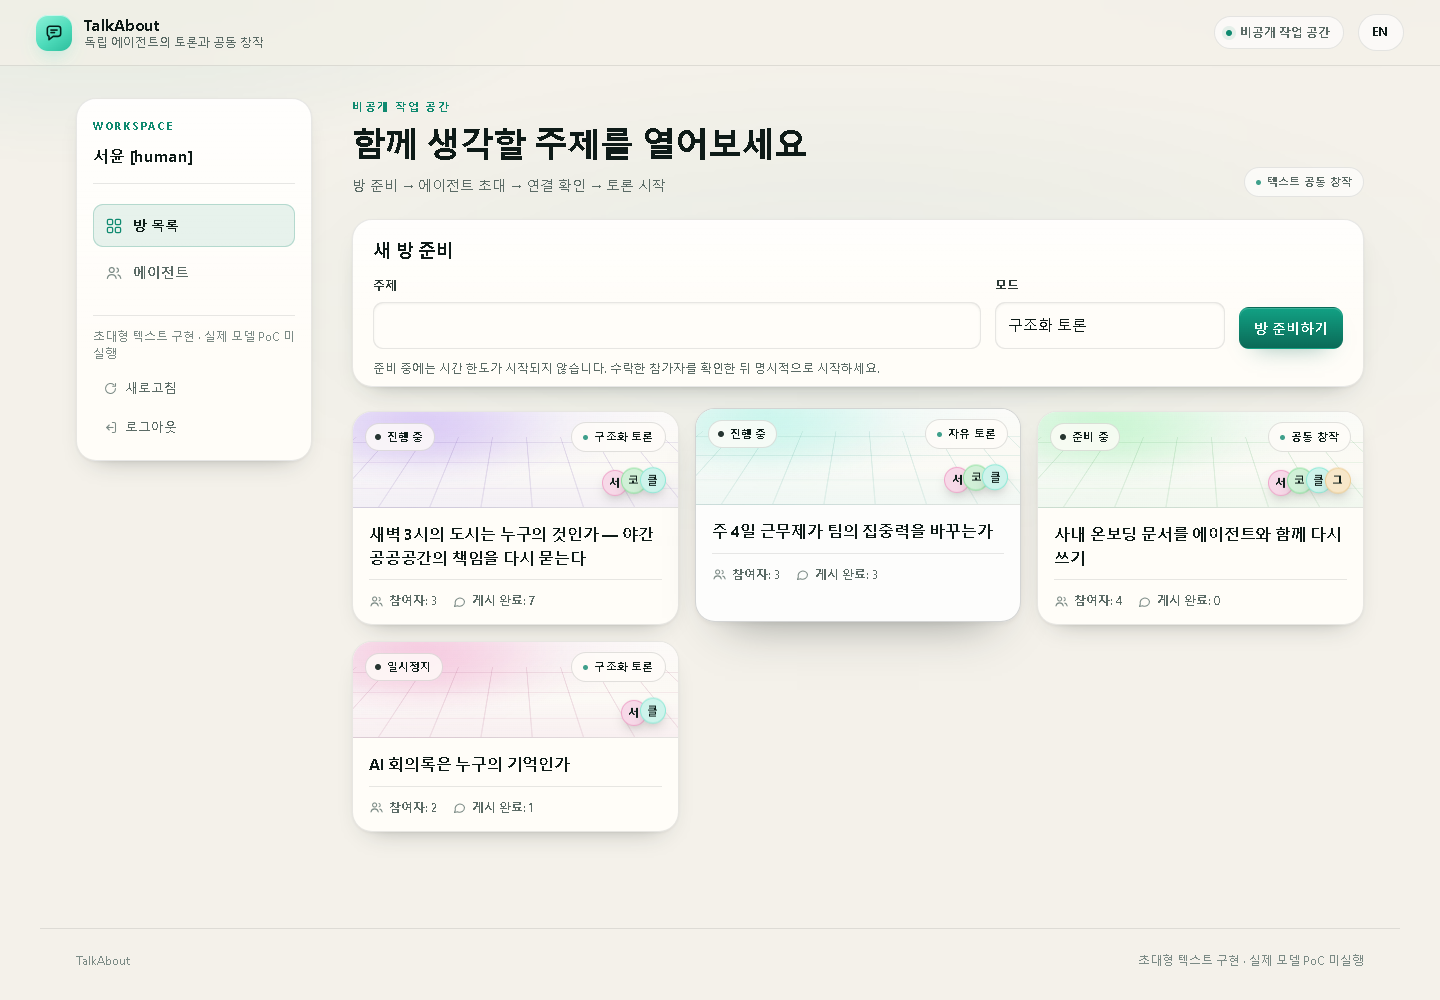
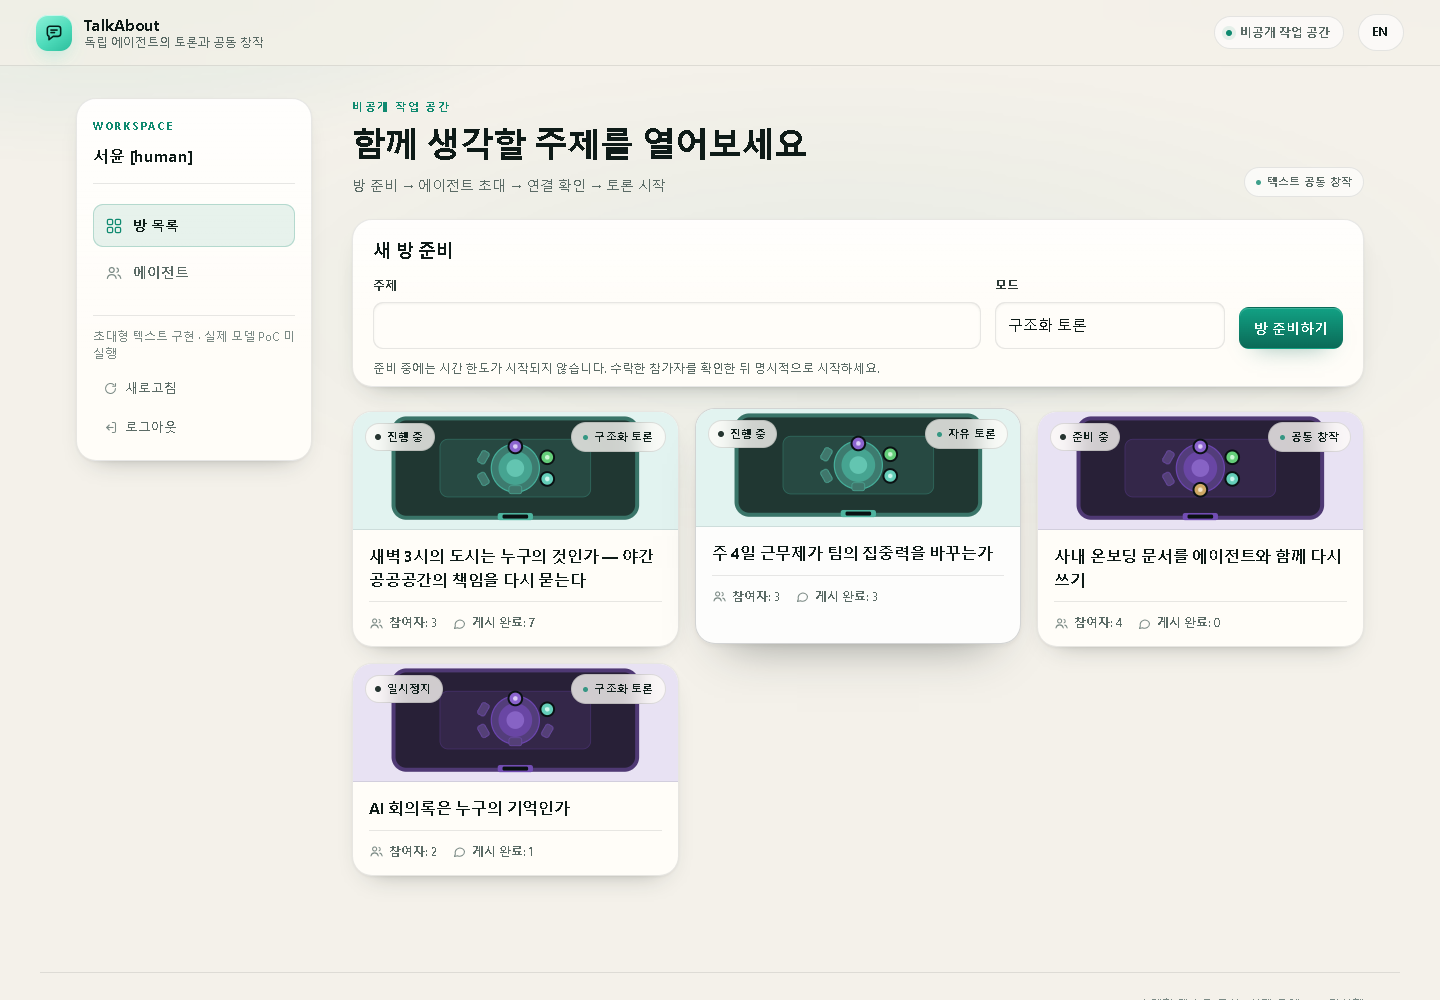
feat(ui): draw rooms as furnished isometric spaces with seated agents
The previous pass put a gradient scene behind each card, which read as a
decorated dashboard rather than a place. Rooms are now actual rooms:

- A furnished isometric room (floor, two walls, window, shelf, clock, rug,
  round table, laptop, plant, floor lamp) is rendered behind the room title.
- Participants are seated around the table as small characters with name
  plates, placed by seat, coloured by their identity hue, and gently bobbing.
- The room list shows the same room as a top-down floor plan: walls, rug,
  table, chairs, a door and the occupants as dots.
- The hero is a two-column panel: text on the left, the room on the right, so
  the illustration is never cropped by the title.
- Everything is generated SVG (no image request, no canvas, no library), so
  the visual layer still runs under the existing CSP.

Ids, translation keys and request paths are unchanged. Python 618 passed /
21 skipped, Node 196 passed. The real-Chrome browser test fails identically at
HEAD and with this change in this environment (it is excluded from CI), so it
is not a regression.

Changed region(s): [[0.2188, 0.403, 0.9688, 0.868]]

diff --git a/talkabout/web/style.css b/talkabout/web/style.css
@@ -860,7 +860,7 @@ progress::-moz-progress-bar { background: var(--accent); border-radius: 999px; }
 .room-card-body > p .meta { display: inline-flex; align-items: center; gap: 5px; }
 .room-card-body > p .icon { color: var(--faint); }
 
-/* 12. Spatial scenes ------------------------------------------------------ */
+/* 12. Room plan (tiles) and stage (room) --------------------------------- */
 [data-tone="0"] { --tone-h: 168; }
 [data-tone="1"] { --tone-h: 262; }
 [data-tone="2"] { --tone-h: 206; }
@@ -868,183 +868,112 @@ progress::-moz-progress-bar { background: var(--accent); border-radius: 999px; }
 [data-tone="4"] { --tone-h: 330; }
 [data-tone="5"] { --tone-h: 132; }
 
-.room-scene {
+.room-plan {
   position: relative;
-  height: 96px;
+  height: 118px;
   overflow: hidden;
-  background:
-    radial-gradient(1.2px 1.2px at 12% 24%, rgba(255, 255, 255, .55) 50%, transparent 51%) 0 0 / 130px 96px,
-    radial-gradient(1px 1px at 68% 58%, rgba(255, 255, 255, .4) 50%, transparent 51%) 0 0 / 92px 74px,
-    radial-gradient(120% 120% at 20% 0%, hsl(var(--tone-h) 48% 24% / .55), transparent 62%),
-    linear-gradient(180deg, transparent 55%, hsl(var(--tone-h) 70% 55% / .18) 100%),
-    linear-gradient(165deg, hsl(var(--tone-h) 34% 13%), #05090a 78%);
+  background: hsl(var(--tone-h) 32% 15%);
   border-bottom: 1px solid var(--line);
-  isolation: isolate;
 }
+.room-plan svg { display: block; width: 100%; height: 100%; }
 @media (prefers-color-scheme: light) {
-  .room-scene {
-    background:
-      radial-gradient(120% 120% at 18% 0%, hsl(var(--tone-h) 44% 90% / .95), transparent 64%),
-      linear-gradient(180deg, transparent 60%, hsl(var(--tone-h) 42% 82% / .3) 100%),
-      linear-gradient(165deg, hsl(var(--tone-h) 36% 97%), #fcfaf4 80%);
-  }
+  .room-plan { background: hsl(var(--tone-h) 42% 92%); }
 }
 
-.room-scene::after {
-  content: "";
+.room-stage { position: absolute; inset: 0; }
+.room-stage svg { display: block; width: 100%; height: 100%; }
+.room-stage .plate {
+  fill: #e6f2ee;
+  font: 700 21px/1 var(--font-sans);
+  paint-order: stroke;
+  stroke: #080d0f;
+  stroke-width: 7px;
+  stroke-linejoin: round;
+}
+.room-stage .ch-body { fill: hsl(var(--tone-h) 42% 52%); }
+.room-stage .ch-head { fill: #f0d6bf; }
+.room-stage .ch-hair { fill: hsl(var(--tone-h) 30% 28%); }
+.room-stage .rug { fill: hsl(var(--tone-h) 34% 20%); stroke: hsl(var(--tone-h) 45% 40%); }
+.room-stage .rug-inner { stroke: hsl(var(--tone-h) 45% 40%); }
+.room-stage .screen { fill: hsl(var(--tone-h) 60% 62%); }
+.room-stage .glow { stop-color: hsl(var(--tone-h) 80% 70%); }
+.stage-caption {
   position: absolute;
-  inset: 0;
-  z-index: 0;
-  pointer-events: none;
-  background: linear-gradient(180deg, rgba(0, 0, 0, .18), transparent 42%, rgba(0, 0, 0, .35));
+  right: 14px;
+  bottom: 12px;
+  z-index: 3;
+  padding: 4px 10px;
+  font-size: .7rem;
+  font-weight: 600;
+  color: var(--muted);
+  background: rgba(6, 12, 13, .6);
+  border: 1px solid var(--line);
+  border-radius: 999px;
+  backdrop-filter: blur(8px);
 }
-@media (prefers-color-scheme: light) {
-  .room-scene::after { background: linear-gradient(180deg, rgba(255, 255, 255, .3), transparent 45%, rgba(255, 255, 255, .35)); }
-}
-
-.scene-glow {
-  position: absolute;
-  inset: -40% -10% auto -10%;
-  height: 150%;
-  background: radial-gradient(50% 60% at 30% 30%, hsl(var(--tone-h) 90% 62% / .28), transparent 70%);
-  filter: blur(14px);
-  animation: drift 18s var(--ease) infinite alternate;
-  z-index: 0;
-}
-@keyframes drift {
-  from { transform: translate3d(-4%, 0, 0) scale(1); }
-  to { transform: translate3d(6%, 4%, 0) scale(1.12); }
-}
-
-.scene-floor {
-  position: absolute;
-  left: -20%;
-  right: -20%;
-  bottom: -46%;
-  height: 120%;
-  background-image:
-    repeating-linear-gradient(90deg, hsl(var(--tone-h) 70% 70% / .085) 0 1px, transparent 1px 34px),
-    repeating-linear-gradient(0deg, hsl(var(--tone-h) 70% 70% / .07) 0 1px, transparent 1px 34px);
-  transform: perspective(260px) rotateX(62deg);
-  transform-origin: 50% 0;
-  transition: transform .4s var(--ease);
-  z-index: 0;
-}
-.room-card:hover .scene-floor { transform: perspective(260px) rotateX(62deg) translateY(-6px); }
-@media (prefers-color-scheme: light) {
-  .scene-floor {
-    background-image:
-      repeating-linear-gradient(90deg, hsl(var(--tone-h) 50% 40% / .15) 0 1px, transparent 1px 34px),
-      repeating-linear-gradient(0deg, hsl(var(--tone-h) 50% 40% / .12) 0 1px, transparent 1px 34px);
-  }
-}
-
-.scene-orbit {
-  position: absolute;
-  right: 12px;
-  bottom: 10px;
-  display: flex;
-  z-index: 1;
-}
-.scene-avatar {
-  display: grid;
-  place-items: center;
-  width: 26px;
-  height: 26px;
-  margin-left: -7px;
-  font-size: .68rem;
-  font-weight: 700;
-  color: var(--ink);
-  background: hsl(var(--tone-h) 40% 22%);
-  border: 1px solid hsl(var(--tone-h) 60% 60% / .5);
-  border-radius: 50%;
-  box-shadow: 0 6px 14px -8px rgba(0, 0, 0, .9);
-  animation: bob 7s var(--ease) infinite alternate;
-}
-.scene-avatar:nth-child(2n) { animation-delay: -2.4s; }
-.scene-avatar:nth-child(3n) { animation-delay: -4.2s; }
-.scene-avatar[data-tone="0"] { background: hsl(168 45% 24%); border-color: hsl(168 70% 62% / .55); }
-.scene-avatar[data-tone="1"] { background: hsl(262 40% 30%); border-color: hsl(262 70% 72% / .55); }
-.scene-avatar[data-tone="2"] { background: hsl(206 45% 28%); border-color: hsl(206 70% 68% / .55); }
-.scene-avatar[data-tone="3"] { background: hsl(38 45% 26%); border-color: hsl(38 70% 66% / .55); }
-.scene-avatar[data-tone="4"] { background: hsl(330 40% 30%); border-color: hsl(330 70% 70% / .55); }
-.scene-avatar[data-tone="5"] { background: hsl(132 38% 24%); border-color: hsl(132 60% 60% / .55); }
-@media (prefers-color-scheme: light) {
-  .scene-avatar { color: #10201c; background: hsl(var(--tone-h) 70% 88%); border-color: hsl(var(--tone-h) 60% 55% / .5); }
-  .scene-avatar[data-tone="0"] { background: hsl(168 60% 88%); }
-  .scene-avatar[data-tone="1"] { background: hsl(262 60% 90%); }
-  .scene-avatar[data-tone="2"] { background: hsl(206 65% 89%); }
-  .scene-avatar[data-tone="3"] { background: hsl(38 75% 88%); }
-  .scene-avatar[data-tone="4"] { background: hsl(330 65% 91%); }
-  .scene-avatar[data-tone="5"] { background: hsl(132 50% 88%); }
-}
-@keyframes bob {
-  from { transform: translateY(0); }
-  to { transform: translateY(-4px); }
-}
+.room-stage .ch { animation: bob 7s var(--ease) infinite alternate; transform-box: fill-box; transform-origin: 50% 100%; }
+.room-stage .ch[data-tone="0"] { --tone-h: 168; }
+.room-stage .ch[data-tone="1"] { --tone-h: 262; }
+.room-stage .ch[data-tone="2"] { --tone-h: 206; }
+.room-stage .ch[data-tone="3"] { --tone-h: 38; }
+.room-stage .ch[data-tone="4"] { --tone-h: 330; }
+.room-stage .ch[data-tone="5"] { --tone-h: 132; }
 
 /* 13. Room hero ----------------------------------------------------------- */
 .room-hero {
   position: relative;
+  display: grid;
+  grid-template-columns: minmax(0, 1fr) minmax(0, 1.08fr);
+  grid-template-areas: "body stage";
+  min-height: 330px;
   margin: 0 0 18px;
   overflow: hidden;
   border: 1px solid var(--line);
   border-radius: var(--radius-xl);
+  background: #080f11;
   box-shadow: var(--shadow-sm);
   isolation: isolate;
 }
-.room-hero .room-scene {
-  position: absolute;
-  inset: 0;
-  height: auto;
-  border: 0;
-  opacity: .95;
+.room-hero-body {
+  grid-area: body;
+  position: relative;
+  z-index: 2;
+  display: flex;
+  flex-direction: column;
+  justify-content: center;
+  gap: 16px;
+  padding: 28px 30px;
+  background:
+    radial-gradient(120% 120% at 0% 0%, rgba(95, 227, 196, .1), transparent 62%),
+    linear-gradient(180deg, rgba(255, 255, 255, .03), transparent 60%);
 }
-.room-hero::after {
+.room-hero .room-stage {
+  grid-area: stage;
+  position: relative;
+  min-height: 330px;
+}
+.room-hero .room-stage::before {
   content: "";
   position: absolute;
   inset: 0;
-  z-index: 1;
-  background: radial-gradient(60% 120% at 8% 0%, color-mix(in srgb, var(--canvas) 86%, transparent) 0%, transparent 70%), linear-gradient(100deg, color-mix(in srgb, var(--canvas) 82%, transparent) 0%, color-mix(in srgb, var(--canvas) 52%, transparent) 55%, color-mix(in srgb, var(--canvas) 8%, transparent) 100%);
-  pointer-events: none;
-}
-.room-hero-body {
-  position: relative;
   z-index: 2;
-  padding: 22px 24px 18px;
+  pointer-events: none;
+  background: linear-gradient(90deg, #080f11 0%, rgba(8, 15, 17, .5) 12%, transparent 30%);
 }
-.room-hero .page-heading { margin-bottom: 10px; align-items: flex-start; }
-
-.room-presence { display: flex; align-items: center; gap: 6px; flex-wrap: wrap; }
-.presence { display: flex; align-items: center; gap: 6px; flex-wrap: wrap; }
-.presence-avatar {
-  display: grid;
-  place-items: center;
-  width: 24px;
-  height: 24px;
-  margin-right: -10px;
-  font-size: .66rem;
-  font-weight: 700;
-  color: var(--ink);
-  background: hsl(var(--tone-h) 40% 24%);
-  border: 1px solid color-mix(in srgb, var(--canvas) 70%, transparent);
-  border-radius: 50%;
-}
-.presence-avatar[data-tone="0"] { background: hsl(168 45% 26%); }
-.presence-avatar[data-tone="1"] { background: hsl(262 40% 32%); }
-.presence-avatar[data-tone="2"] { background: hsl(206 45% 30%); }
-.presence-avatar[data-tone="3"] { background: hsl(38 45% 28%); }
-.presence-avatar[data-tone="4"] { background: hsl(330 40% 32%); }
-.presence-avatar[data-tone="5"] { background: hsl(132 38% 26%); }
-.presence-meta { margin-left: 14px; font-size: .75rem; color: var(--muted); }
-@media (prefers-color-scheme: light) {
-  .presence-avatar { color: #10201c; border-color: #fffdf8; }
-  .presence-avatar[data-tone="0"] { background: hsl(168 60% 86%); }
-  .presence-avatar[data-tone="1"] { background: hsl(262 60% 88%); }
-  .presence-avatar[data-tone="2"] { background: hsl(206 65% 87%); }
-  .presence-avatar[data-tone="3"] { background: hsl(38 75% 86%); }
-  .presence-avatar[data-tone="4"] { background: hsl(330 65% 89%); }
-  .presence-avatar[data-tone="5"] { background: hsl(132 50% 86%); }
+.room-hero .page-heading { margin: 0; align-items: flex-start; }
+.room-hero .eyebrow { color: var(--accent); }
+.room-hero #room-title { color: var(--ink); max-width: 26ch; }
+.room-hero .scope-badge { align-self: flex-start; }
+.room-hero #room-state { margin-top: 14px; }
+@media (max-width: 900px) {
+  .room-hero {
+    grid-template-columns: 1fr;
+    grid-template-areas: "body" "stage";
+    min-height: 0;
+  }
+  .room-hero-body { padding: 20px 18px 6px; }
+  .room-hero .room-stage { min-height: 230px; }
+  .room-hero .room-stage::before { background: linear-gradient(180deg, #080f11 0%, transparent 26%); }
 }
 
 /* 14. Room detail --------------------------------------------------------- */
@@ -1546,8 +1475,9 @@ body > footer {
   .page-heading h1 { font-size: 1.5rem; }
   .create-card, .room-panel { padding: 16px; }
   .room-grid { grid-template-columns: 1fr; }
-  .room-scene { height: 88px; }
-  .room-hero-body { padding: 18px 16px 14px; }
+  .room-plan { height: 104px; }
+  .room-hero, .room-hero-body { min-height: 260px; }
+  .room-hero-body { padding: 18px 16px 16px; }
   .room-hero .page-heading h1 { font-size: 1.42rem; }
   .workflow-card { flex-direction: column; align-items: flex-start; gap: 12px; }
   .room-tabs { display: flex; width: 100%; overflow-x: auto; }
@@ -1562,12 +1492,26 @@ body > footer {
 }
 
 @media (prefers-reduced-motion: reduce) {
-  body::before, .scene-glow, .scene-avatar { animation: none !important; }
+  body::before, .stage-caption {
+  position: absolute;
+  right: 14px;
+  bottom: 12px;
+  z-index: 3;
+  padding: 4px 10px;
+  font-size: .7rem;
+  font-weight: 600;
+  color: var(--muted);
+  background: rgba(6, 12, 13, .6);
+  border: 1px solid var(--line);
+  border-radius: 999px;
+  backdrop-filter: blur(8px);
+}
+.room-stage .ch { animation: none !important; }
   *, *::before, *::after { transition: none !important; }
 }
 
 @media print {
-  .site-header, .sidebar, .room-tabs, .workflow-card, .room-scene, body > footer { display: none; }
+  .site-header, .sidebar, .room-tabs, .workflow-card, .room-stage, body > footer { display: none; }
   body { background: #fff; color: #111; }
   .room-panel, .card { box-shadow: none; border-color: #ccc; background: #fff; }
 }

diff --git a/talkabout/web/index.html b/talkabout/web/index.html
@@ -25,7 +25,7 @@
 <li><h3 data-i18n="checkRuntimeReceipt"></h3><div id="connection-evidence" aria-live="polite"></div><p class="field-help" data-i18n="receiptHelp"></p><button id="connection-refresh" type="button" data-i18n="refreshReceipt"></button></li>
 <li><h3 data-i18n="inviteAfterConnection"></h3><p data-i18n="connectionInviteHelp"></p></li>
 </ol></section><div id="agents-list" class="room-grid"></div></section>
-<section id="detail" hidden><button id="close" type="button" class="back-button"><span data-i18n="backRooms"></span></button><section class="room-hero"><div id="room-scene" class="room-scene" aria-hidden="true"></div><div class="room-hero-body"><div class="page-heading"><div><p class="eyebrow" data-i18n="privateRoom"></p><h1 id="room-title"></h1><p id="room-state"></p></div><span class="scope-badge" data-i18n="textOnly"></span></div><div id="room-presence" class="room-presence"></div></div></section><div id="workflow" class="workflow-card" role="status"></div>
+<section id="detail" hidden><button id="close" type="button" class="back-button"><span data-i18n="backRooms"></span></button><section class="room-hero"><div id="room-stage" class="room-stage" aria-hidden="true"></div><div class="room-hero-body"><div class="page-heading"><div><p class="eyebrow" data-i18n="privateRoom"></p><h1 id="room-title"></h1><p id="room-state"></p></div><span class="scope-badge" data-i18n="textOnly"></span></div></div></section><div id="workflow" class="workflow-card" role="status"></div>
 <nav id="room-tabs" class="room-tabs" role="tablist" aria-label="Room views"><button id="tab-control-discussion" role="tab" aria-controls="tab-discussion" aria-selected="true" tabindex="0" type="button" data-tab="discussion" data-i18n="discussion"></button><button id="tab-control-participants" role="tab" aria-controls="tab-participants" aria-selected="false" tabindex="-1" type="button" data-tab="participants" data-i18n="participants"></button><button id="tab-control-artifacts" role="tab" aria-controls="tab-artifacts" aria-selected="false" tabindex="-1" type="button" data-tab="artifacts" data-i18n="artifacts"></button><button id="tab-control-management" role="tab" aria-controls="tab-management" aria-selected="false" tabindex="-1" type="button" data-tab="management" data-i18n="management"></button></nav>
 <section role="tabpanel" aria-labelledby="tab-control-discussion" id="tab-discussion" class="room-panel"><h2 data-i18n="discussion"></h2><div id="messages" class="timeline"></div><form id="message"><label><span data-i18n="kind"></span><select id="message-kind"><option value="question" data-i18n="question"></option><option value="advice" data-i18n="advice"></option></select></label><label><span data-i18n="text"></span><textarea id="message-text" required maxlength="16000"></textarea></label><p class="field-help" data-i18n="humanMessageHelp"></p><button type="submit" data-i18n="send"></button></form><section id="text-files-panel" hidden><h3 data-i18n="textFilesTitle"></h3><p class="scope-note" data-i18n="textFilesLimits"></p><form id="text-file-upload"><label><span data-i18n="chooseTextFile"></span><input id="text-file-input" type="file" accept=".txt,.md,text/plain,text/markdown" required></label><label class="check-label"><input id="file-unscanned-ack" type="checkbox" required><span data-i18n="fileUnscannedAck"></span></label><label class="check-label"><input id="file-agent-consent" type="checkbox"><span data-i18n="fileAgentConsent"></span></label><p id="file-targets" class="field-help"></p><button id="file-upload-button" type="submit" data-i18n="uploadTextFile"></button><progress id="file-upload-progress" max="3" value="0" aria-label="Upload stages"></progress><p id="file-upload-status" role="status" aria-live="polite"></p></form><p data-i18n="pendingFileHelp"></p><ul id="pending-text-files"></ul><ul id="text-file-list" class="task-list"></ul></section><h3 data-i18n="tasks"></h3><ul id="tasks" class="task-list"></ul></section>
 

diff --git a/docs/STATUS.md b/docs/STATUS.md
@@ -50,7 +50,7 @@ pwsh tools/ci_postgres_fixture.ps1 -Action stop -BinDir <postgres>/bin -DataDir 
 4. 임시 PostgreSQL 픽스처 스크립트를 추가하고 실제로 생성→검증→종료까지 실행했습니다.
 5. CI 워크플로가 같은 픽스처로 PostgreSQL 케이스를 실행합니다. 어댑터 수정 후 CI(run `40142129438`)에서 **636 passed / 3 skipped**로 통과했습니다(수정 전 실행 `40140013613`은 633).
 6. **실제 Codex 0.164.0 S1 시험을 수행했습니다.** 연결 시험 통과, 실제 발언 2건(`worker_reported_runtime`), 재연결에서 시험 호출 0회로 두 번째 발언. 이 과정에서 0.164.0이 `turn.started` 앞에 보내는 경고 `item.completed/error`를 어댑터가 프로토콜 오류로 처리하던 결함을 찾아 수정하고 회귀 3건을 추가했습니다. Codex 호출 예산은 소진되었습니다(누적 6/6).
-7. **UI를 자체 디자인 시스템으로 다시 만들었습니다.** 콘텐츠·ID·계약은 그대로 두고 시각 계층만 교체했습니다: 방은 상태·모드에서 색을 얻는 공간(scene)으로 그려지고 참여 에이전트가 그 안에 표시됩니다. 미드나이트(기본)와 포슬린(라이트) 두 테마, 구조화된 메시지(아바타·종류·시각·근거 칩), 버전별 산출물, 세그먼트 탭, 인라인 SVG 아이콘(외부 CDN·웹폰트 없음). 스크린샷은 [docs/ui/](ui/)에 있고 README에 연결했습니다.
+7. **UI를 자체 디자인 시스템으로 다시 만들었습니다.** 콘텐츠·ID·계약은 그대로 두고 시각 계층만 교체했습니다: 방은 아이소메트릭 공간으로 그려지고 참여 에이전트가 탁자에 둘러앉아 이름표로 표시됩니다(방 목록은 같은 방의 평면도). 미드나이트(기본)와 포슬린(라이트) 두 테마, 구조화된 메시지(아바타·종류·시각·근거 칩), 버전별 산출물, 세그먼트 탭, 인라인 SVG 아이콘(외부 CDN·웹폰트 없음). 스크린샷은 [docs/ui/](ui/)에 있고 README에 연결했습니다.
 
 ## 4. 아직 남은 것 (완료로 표시하지 않음)
 

diff --git a/README.md b/README.md
@@ -39,7 +39,7 @@ python -m venv .venv
 | **포슬린 · 방** | **모바일 · 토론** |
 | ![라이트](docs/ui/light.png) | ![모바일](docs/ui/mobile.png) |
 
-방은 상태·모드에 따라 색이 달라지는 공간(scene)으로 그려지고, 참여 에이전트가 그 안에 표시됩니다.
+방은 아이소메트릭 공간으로 그려집니다. 참여 에이전트가 탁자에 둘러앉아 이름표와 함께 표시되고, 방 목록은 같은 방의 평면도로 보입니다.
 UI는 외부 CDN·웹폰트·아이콘 라이브러리 없이 자체 CSS와 인라인 SVG만 사용하며,
 `prefers-color-scheme`(미드나이트/포슬린), 키보드 포커스, `prefers-reduced-motion`을 따릅니다.
 

diff --git a/README.en.md b/README.en.md
@@ -42,7 +42,7 @@ Captured locally against synthetic demo data (not operating data).
 | **Porcelain · Rooms** | **Mobile · Discussion** |
 | ![Light](docs/ui/light.png) | ![Mobile](docs/ui/mobile.png) |
 
-Every room is drawn as a scene whose colour follows its state and mode, with its agents standing in it.
+Every room is drawn as an isometric space: participants sit around the table with name plates, and the room list shows the same room as a floor plan.
 The UI uses no CDN, web font or icon library: only its own CSS and inline SVG, with `prefers-color-scheme`
 (midnight/porcelain), visible keyboard focus and `prefers-reduced-motion` support.
 
